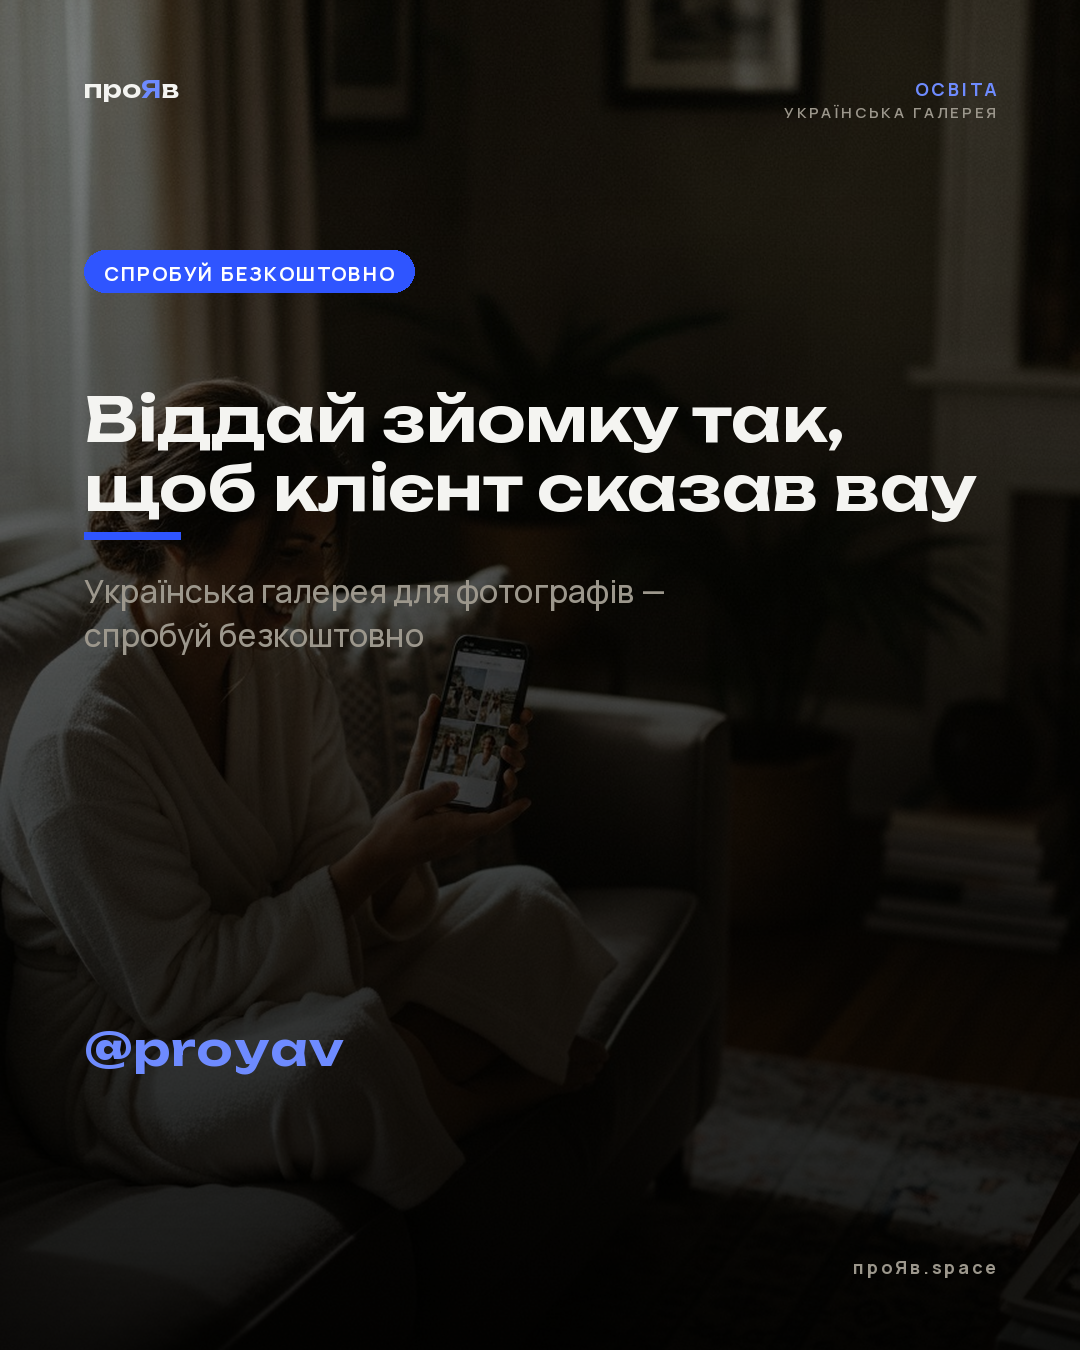
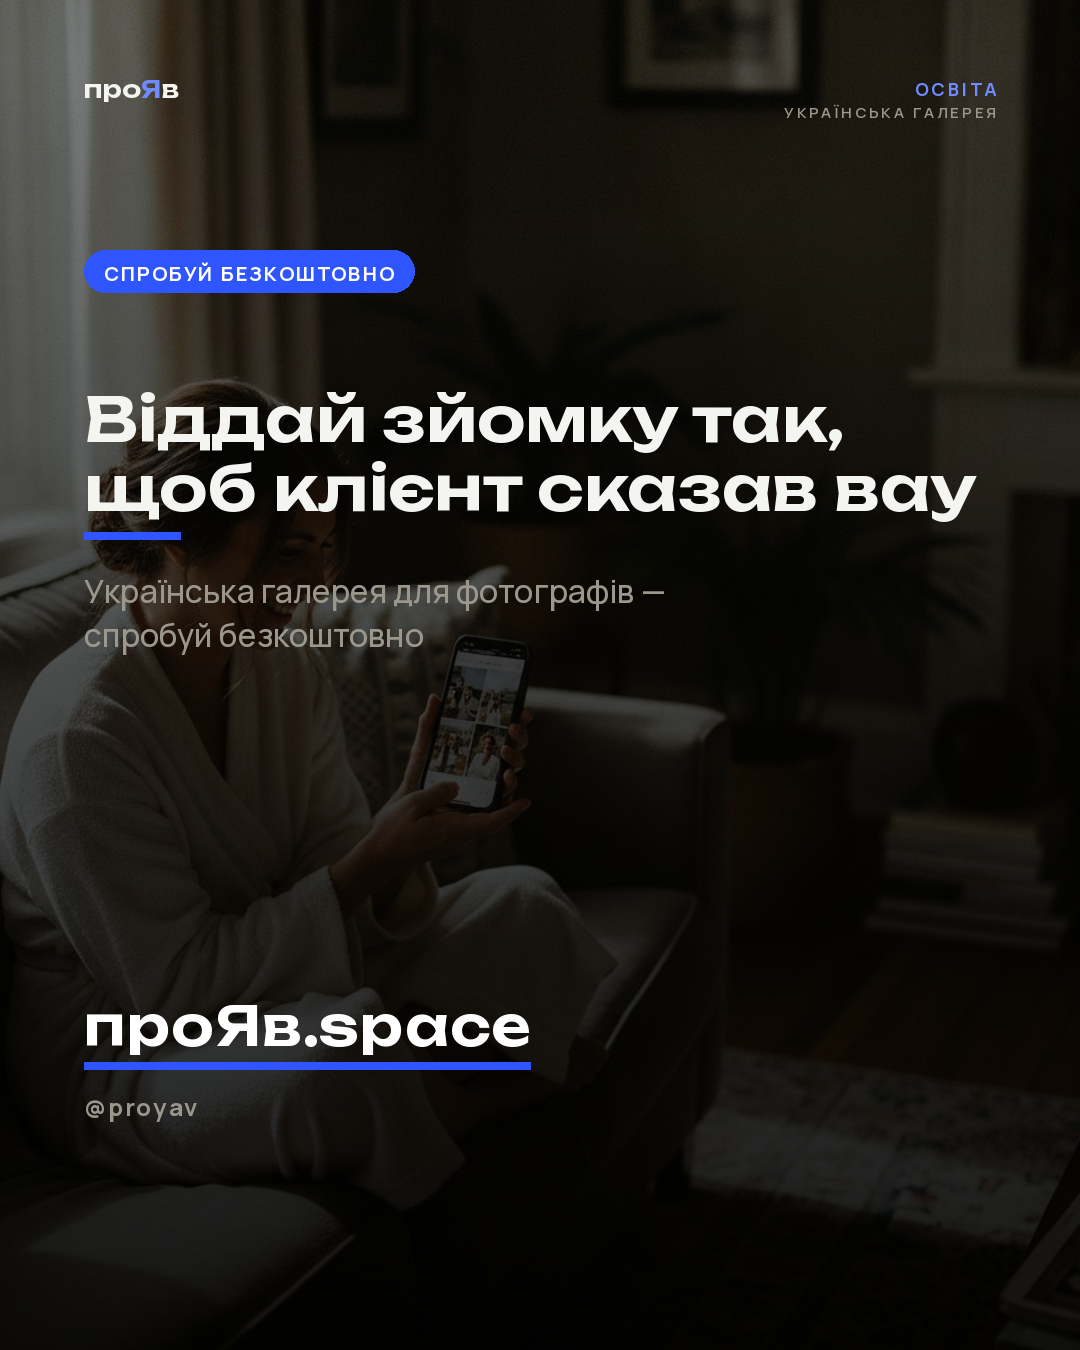
feat: prominent проЯв.space website on the CTA slide
Adds the site as the primary action on the closing slide — large wordmark URL
with a cobalt underline and the @proyav handle beneath — instead of only a tiny
corner cue. New config.SITE holds the domain.

Claude-Session: https://claude.ai/code/session_015wyBXFLFDaqriyMyWQgP9j

Changed region(s): [[0.0611, 0.7467, 0.4889, 0.84], [0.7944, 0.9333, 0.9167, 0.9644]]

diff --git a/render.py b/render.py
@@ -333,8 +333,14 @@ def cta(car, out_path, photo=None, mono=False):
     if car.get("cta_sub"):
         for l in wrap(d, car["cta_sub"], body(32, 500), maxw - 200):
             d.text((MARGIN, y), l, font=body(32, 500), fill=MUT_D); y += 44
-    tracked(d, MARGIN, H - 330, C.HANDLE, disp(46, 600), ACC_D, tr=1)
-    _meta(d, car["rubric"], "", "проЯв.space", dark=True)
+    # website — the primary action on the closing slide
+    site = getattr(C, "SITE", "проЯв.space")
+    ys = H - 358
+    tracked(d, MARGIN, ys, site, disp(54, 600), WHITE, tr=1)
+    sw = min(_tw(d, site, disp(54, 600), 1), maxw)
+    d.rectangle([MARGIN, ys + 70, MARGIN + sw, ys + 77], fill=ACC)
+    tracked(d, MARGIN, ys + 98, C.HANDLE, body(24, 700), MUT_D, tr=2)
+    _meta(d, car["rubric"], "", "", dark=True)
     os.makedirs(os.path.dirname(out_path), exist_ok=True)
     img.save(out_path, "PNG"); return out_path
 

diff --git a/config.py b/config.py
@@ -27,6 +27,7 @@ DISPLAY  = "fonts/Unbounded.ttf"      # (kept for back-compat)
 
 BRAND    = "проЯв"
 HANDLE   = "@proyav"
+SITE     = "проЯв.space"
 TAGLINE  = "УКРАЇНСЬКА ГАЛЕРЕЯ ДЛЯ ФОТОГРАФІВ"
 
 CAROUSEL_SIZE = (1080, 1350)  # 4:5 -> Instagram carousel
